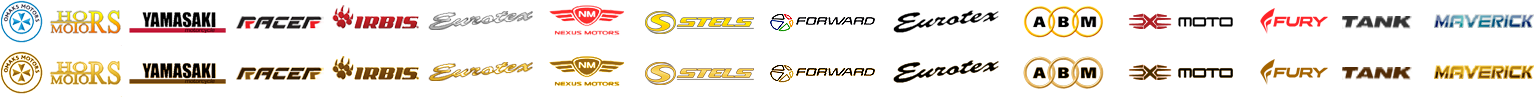
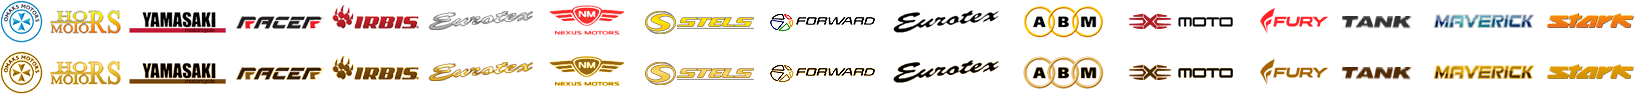
company list fixes

diff --git a/app/webroot/css/style.css b/app/webroot/css/style.css
@@ -1041,6 +1041,11 @@ img {
   width: 99px;
 }
 
+.company.stark {
+  background-position:-1547px -50px;
+  width: 87px;
+}
+
 .companies-menu .company.omaks:hover,
 .companies-menu .company.omaks.act{
   background-position: 0px 1px;
@@ -1126,6 +1131,12 @@ img {
   width: 99px;
 }
 
+.companies-menu .company.stark:hover,
+.companies-menu .company.stark.act{
+  background-position: -1547px 1px;
+  width: 87px;
+}
+
 .cm-partner-item .cmp-info span.company {
   display: inline-block;
   float: right;
@@ -1167,6 +1178,21 @@ img {
 
 .cm-partner-item .cmp-info span.company.nexus.act {
   background-position:-545px -50px;
+}
+
+.cm-partner-item .cmp-info span.company.fury.act {
+  background-position:-1255px -50px;
+}
+
+.cm-partner-item .cmp-info span.company.maverick.act {
+  background-position:-1430px -50px;
+}
+
+.cm-partner-item .cmp-info span.company.stark.act {
+  background-position:-1542px -50px;
+}
+.cm-partner-item .cmp-info span.company.tank.act {
+  background-position:-1337px -50px;
 }
 
 h2.company {
